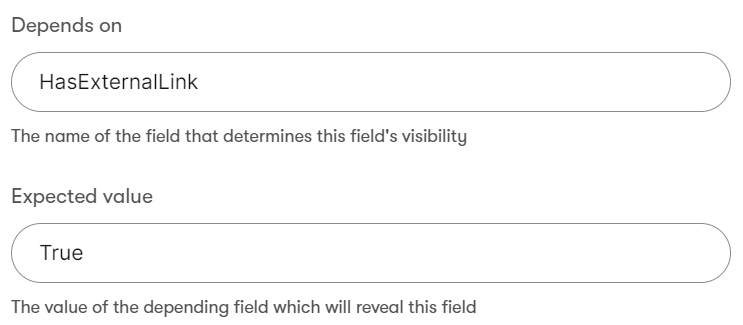
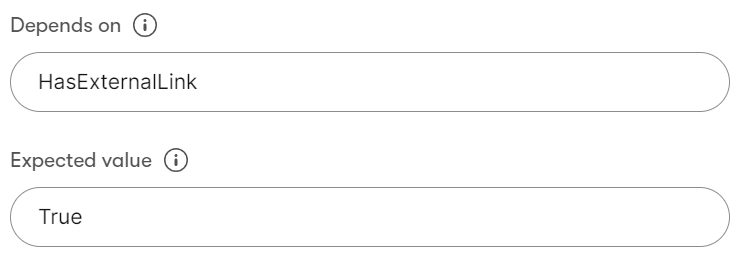
move registrations, use constants

diff --git a/src/FormComponents/RadioGroupInputDependsOnFieldComponent/RadioGroupInputDependsOnFieldComponent.cs b/src/FormComponents/RadioGroupInputDependsOnFieldComponent/RadioGroupInputDependsOnFieldComponent.cs
@@ -2,7 +2,11 @@
 
 using Kentico.Xperience.Admin.Base.Forms;
 
+using Xperience.DependingFieldComponents;
+using Xperience.DependingFieldComponents.FormComponents.RadioGroupInputDependsOnFieldComponent;
 using Xperience.DependingFieldComponents.VisibilityConditions;
+
+[assembly: RegisterFormComponent(DependingFieldComponentsConstants.RADIOGROUP_IDENTIFIER, typeof(RadioGroupInputDependsOnFieldComponent), DependingFieldComponentsConstants.RADIOGROUP_FIELDDESCRIPTION)]
 
 namespace Xperience.DependingFieldComponents.FormComponents.RadioGroupInputDependsOnFieldComponent
 {
@@ -13,12 +17,6 @@ namespace Xperience.DependingFieldComponents.FormComponents.RadioGroupInputDepen
     public class RadioGroupInputDependsOnFieldComponent : FormComponent<RadioGroupInputDependsOnFieldProperties, RadioGroupClientProperties, string>
     {
         private readonly ILocalizationService localizationService;
-
-
-        /// <summary>
-        /// The identifier for the <see cref="RadioGroupInputDependsOnFieldComponent"/>.
-        /// </summary>
-        public const string IDENTIFIER = "RadioGroupInputDependsOnFieldComponent";
 
 
         public override string ClientComponentName => "@kentico/xperience-admin-base/RadioGroup";
@@ -59,7 +57,7 @@ namespace Xperience.DependingFieldComponents.FormComponents.RadioGroupInputDepen
         {
             var value = base.GetValue();
 
-            return GetOptions()?.FirstOrDefault(o => o.Value == value)?.Value;
+            return GetOptions()?.FirstOrDefault(o => o.Value == value)?.Value ?? String.Empty;
         }
 
 

diff --git a/src/DependingFieldComponentsConstants.cs b/src/DependingFieldComponentsConstants.cs
@@ -1,0 +1,23 @@
+using CMS;
+
+[assembly: AssemblyDiscoverable]
+namespace Xperience.DependingFieldComponents
+{
+    public static class DependingFieldComponentsConstants
+    {
+        public const string TEXTINPUT_IDENTIFIER = "Xperience.DependingFieldComponents.TextInput";
+        public const string TEXTINPUT_FIELDDESCRIPTION = "Text input with field dependency";
+
+        public const string NUMBERINPUT_IDENTIFIER = "Xperience.DependingFieldComponents.NumberInput";
+        public const string NUMBERINPUT_FIELDDESCRIPTION = "Number input with field dependency";
+
+        public const string RADIOGROUP_IDENTIFIER = "Xperience.DependingFieldComponents.RadioGroupInput";
+        public const string RADIOGROUP_FIELDDESCRIPTION = "Radio button group with field dependency";
+
+        public const string PROPERTY_DEPENDSON_LABEL = "Depends on";
+        public const string PROPERTY_DEPENDSON_TOOLTIP = "The name of the field that determines this field's visibility";
+
+        public const string PROPERTY_EXPECTEDVALUE_LABEL = "Expected value";
+        public const string PROPERTY_EXPECTEDVALUE_TOOLTIP = "The value of the depending field which will reveal this field";
+    }
+}

diff --git a/src/FormComponents/NumberInputDependsOnFieldComponent/NumberInputDependsOnFieldComponent.cs b/src/FormComponents/NumberInputDependsOnFieldComponent/NumberInputDependsOnFieldComponent.cs
@@ -2,7 +2,11 @@
 
 using Kentico.Xperience.Admin.Base.Forms;
 
+using Xperience.DependingFieldComponents;
+using Xperience.DependingFieldComponents.FormComponents.NumberInputDependsOnFieldComponent;
 using Xperience.DependingFieldComponents.VisibilityConditions;
+
+[assembly: RegisterFormComponent(DependingFieldComponentsConstants.NUMBERINPUT_IDENTIFIER, typeof(NumberInputDependsOnFieldComponent), DependingFieldComponentsConstants.NUMBERINPUT_FIELDDESCRIPTION)]
 
 namespace Xperience.DependingFieldComponents.FormComponents.NumberInputDependsOnFieldComponent
 {
@@ -13,12 +17,6 @@ namespace Xperience.DependingFieldComponents.FormComponents.NumberInputDependsOn
     public class NumberInputDependsOnFieldComponent : FormComponent<NumberInputDependsOnFieldProperties, NumberInputClientProperties, int?>
     {
         private readonly ILocalizationService localizationService;
-
-
-        /// <summary>
-        /// The identifier for the <see cref="NumberInputDependsOnFieldComponent"/>.
-        /// </summary>
-        public const string IDENTIFIER = "NumberInputDependsOnFieldComponent";
 
 
         public override string ClientComponentName => "@kentico/xperience-admin-base/NumberInput";

diff --git a/src/FormComponents/NumberInputDependsOnFieldComponent/NumberInputDependsOnFieldProperties.cs b/src/FormComponents/NumberInputDependsOnFieldComponent/NumberInputDependsOnFieldProperties.cs
@@ -6,13 +6,13 @@ namespace Xperience.DependingFieldComponents.FormComponents.NumberInputDependsOn
     /// <summary>
     /// Properties for the <see cref="NumberInputDependsOnFieldComponent"/> component.
     /// </summary>
-    public class NumberInputDependsOnFieldProperties : FormComponentProperties
+    public class NumberInputDependsOnFieldProperties : FormComponentProperties, IDependsOnPropertyProperties
     {
-        [TextInputComponent(Label = "Depends on", ExplanationText = "The name of the field that determines this field's visibility", Order = 1)]
+        [TextInputComponent(Label = DependingFieldComponentsConstants.PROPERTY_DEPENDSON_LABEL, Tooltip = DependingFieldComponentsConstants.PROPERTY_DEPENDSON_TOOLTIP, Order = 1)]
         public string? DependsOn { get; set; }
 
 
-        [TextInputComponent(Label = "Expected value", ExplanationText = "The value of the depending field which will reveal this field", Order = 2)]
+        [TextInputComponent(Label = DependingFieldComponentsConstants.PROPERTY_EXPECTEDVALUE_LABEL, Tooltip = DependingFieldComponentsConstants.PROPERTY_EXPECTEDVALUE_TOOLTIP, Order = 2)]
         public string? ExpectedValue { get; set; }
 
 

diff --git a/src/FormComponents/TextInputDependsOnFieldComponent/TextInputDependsOnFieldComponent.cs b/src/FormComponents/TextInputDependsOnFieldComponent/TextInputDependsOnFieldComponent.cs
@@ -2,7 +2,11 @@
 
 using Kentico.Xperience.Admin.Base.Forms;
 
+using Xperience.DependingFieldComponents;
+using Xperience.DependingFieldComponents.FormComponents.TextInputDependsOnFieldComponent;
 using Xperience.DependingFieldComponents.VisibilityConditions;
+
+[assembly: RegisterFormComponent(DependingFieldComponentsConstants.TEXTINPUT_IDENTIFIER, typeof(TextInputDependsOnFieldComponent), DependingFieldComponentsConstants.TEXTINPUT_FIELDDESCRIPTION)]
 
 namespace Xperience.DependingFieldComponents.FormComponents.TextInputDependsOnFieldComponent
 {
@@ -13,12 +17,6 @@ namespace Xperience.DependingFieldComponents.FormComponents.TextInputDependsOnFi
     public class TextInputDependsOnFieldComponent : FormComponent<TextInputDependsOnFieldProperties, TextInputClientProperties, string>
     {
         private readonly ILocalizationService localizationService;
-
-
-        /// <summary>
-        /// The identifier for the <see cref="TextInputDependsOnFieldComponent"/>.
-        /// </summary>
-        public const string IDENTIFIER = "TextInputDependsOnFieldComponent";
 
 
         public override string ClientComponentName => "@kentico/xperience-admin-base/TextInput";

diff --git a/src/FormComponents/RadioGroupInputDependsOnFieldComponent/RadioGroupInputDependsOnFieldProperties.cs b/src/FormComponents/RadioGroupInputDependsOnFieldComponent/RadioGroupInputDependsOnFieldProperties.cs
@@ -9,11 +9,11 @@ namespace Xperience.DependingFieldComponents.FormComponents.RadioGroupInputDepen
     /// </summary>
     public class RadioGroupInputDependsOnFieldProperties : RadioGroupProperties, IDependsOnPropertyProperties
     {
-        [TextInputComponent(Label = "Depends on", ExplanationText = "The name of the field that determines this field's visibility", Order = 1)]
+        [TextInputComponent(Label = DependingFieldComponentsConstants.PROPERTY_DEPENDSON_LABEL, Tooltip = DependingFieldComponentsConstants.PROPERTY_DEPENDSON_TOOLTIP, Order = 1)]
         public string? DependsOn { get; set; }
 
 
-        [TextInputComponent(Label = "Expected value", ExplanationText = "The value of the depending field which will reveal this field", Order = 2)]
+        [TextInputComponent(Label = DependingFieldComponentsConstants.PROPERTY_EXPECTEDVALUE_LABEL, Tooltip = DependingFieldComponentsConstants.PROPERTY_EXPECTEDVALUE_TOOLTIP, Order = 2)]
         public string? ExpectedValue { get; set; }
     }
 }

diff --git a/src/FormComponents/TextInputDependsOnFieldComponent/TextInputDependsOnFieldProperties.cs b/src/FormComponents/TextInputDependsOnFieldComponent/TextInputDependsOnFieldProperties.cs
@@ -9,11 +9,11 @@ namespace Xperience.DependingFieldComponents.FormComponents.TextInputDependsOnFi
     /// </summary>
     public class TextInputDependsOnFieldProperties : TextInputProperties, IDependsOnPropertyProperties
     {
-        [TextInputComponent(Label = "Depends on", ExplanationText = "The name of the field that determines this field's visibility", Order = 1)]
+        [TextInputComponent(Label = DependingFieldComponentsConstants.PROPERTY_DEPENDSON_LABEL, Tooltip = DependingFieldComponentsConstants.PROPERTY_DEPENDSON_TOOLTIP, Order = 1)]
         public string? DependsOn { get; set; }
 
 
-        [TextInputComponent(Label = "Expected value", ExplanationText = "The value of the depending field which will reveal this field", Order = 2)]
+        [TextInputComponent(Label = DependingFieldComponentsConstants.PROPERTY_EXPECTEDVALUE_LABEL, Tooltip = DependingFieldComponentsConstants.PROPERTY_EXPECTEDVALUE_TOOLTIP, Order = 2)]
         public string? ExpectedValue { get; set; }
     }
 }
